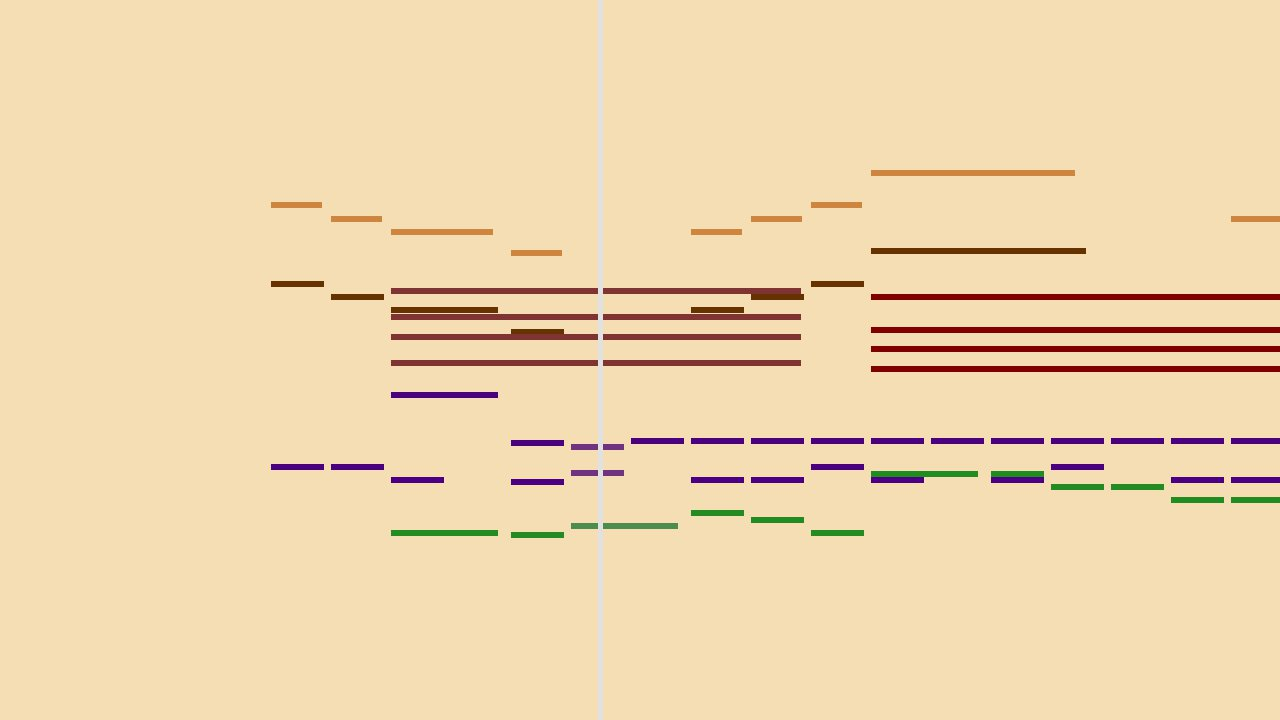
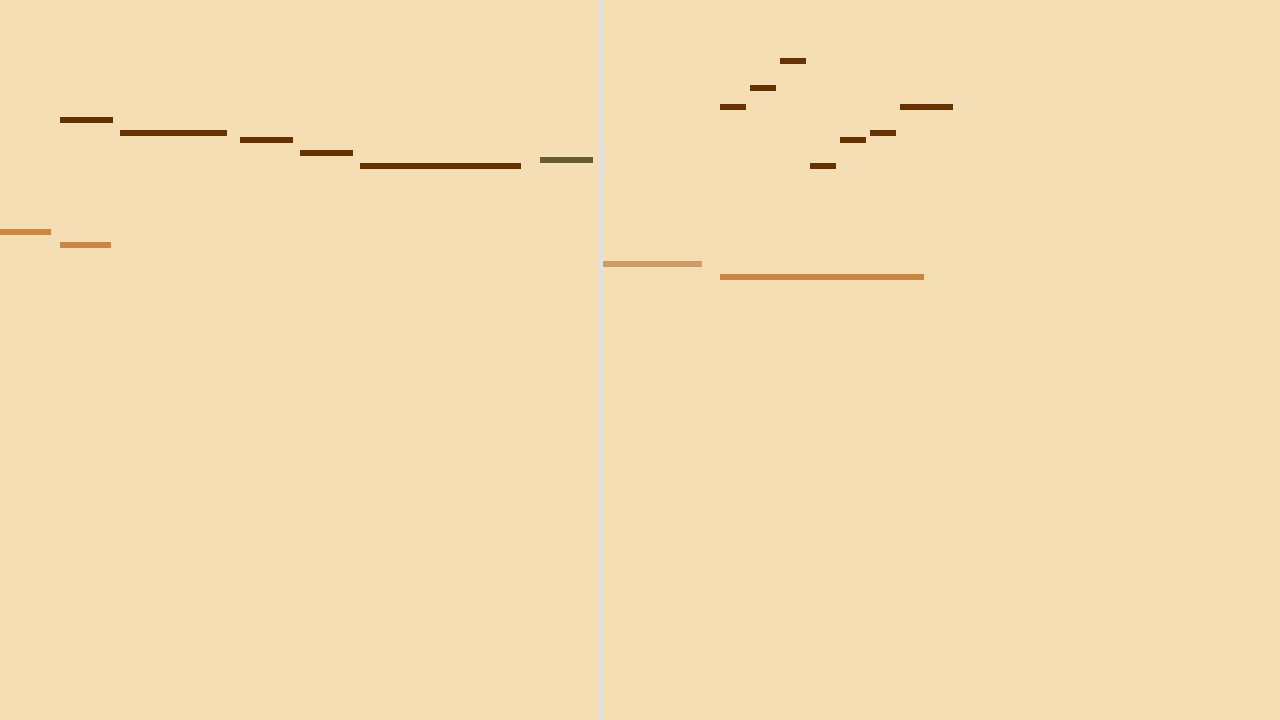
line

diff --git a/app_logic.py b/app_logic.py
@@ -87,10 +87,14 @@ class AppLogic():
         self.set_display_height(720)
         self.set_starting_position(1000)
         self.set_note_length(120)
+
         self.set_line_x(600)
+        self.set_line_colour((225,225,225))
+        self.set_line_width(5)
+        self.set_line_height(720)
+        
         self.set_colour(bg_colour_2)
 
-    #P
     def process_midi(self):
         
         #setting initial bpm, its just for note generation not too important
@@ -158,7 +162,12 @@ class AppLogic():
 
     def set_line_x(self, line_x):
         self.line_x = line_x
-
+    def set_line_colour(self, line_colour):
+        self.line_colour = line_colour
+    def set_line_width(self, line_width):
+        self.line_width = line_width
+    def set_line_height(self, line_height):
+        self.line_height = line_height
 
     def generate_vid(self):
         pg.quit()
@@ -258,15 +267,13 @@ class AppLogic():
                     # print("rectangle")
                     # print(note)
         
-            pg.display.update()
             
             # the line
             line_start = (self.line_x,0)
-            line_end = (self.line_x,720)
-            line_width = 5
-            line_colour = (225,225,225)
-            pg.draw.line(screen, line_colour, line_start, line_end, line_width)
+            line_end = (self.line_x,self.line_height)
+            pg.draw.line(screen, self.line_colour, line_start, line_end, self.line_width)
 
+            pg.display.update()
 
 
             vid.vid_generator(screen)
@@ -333,6 +340,11 @@ class AppLogic():
                 pg.draw.rect(frame_screen, rect_color, (rect_x, rect_y, rect_width, rect_height))
                 # pg.display.update(pg.Rect(rect_x, rect_y, rect_width, rect_height))
 
+        # the line
+        line_start = (self.line_x,0)
+        line_end = (self.line_x,self.line_height)
+        
+        pg.draw.line(frame_screen, self.line_colour, line_start, line_end, self.line_width)
         # raw_frame = pg.image.tostring(frame_screen, "RGB")
         raw_frame = pg.surfarray.array3d(frame_screen)
            

diff --git a/app.py b/app.py
@@ -265,11 +265,9 @@ class Instrument(QWidget):
         self.name = name
         self.safe_name = re.sub(r'[^\x20-\x7E]', '', self.name)  # Remove invalid characters
 
-
         self.setup_ui()
         self.setup_signals()
 
- 
 
     def setup_ui(self):
         # Instrument Wdiget Background Handling
@@ -492,7 +490,7 @@ class Preview_Slider(QSlider):
         super().__init__(Qt.Horizontal, parent)
         self.setMinimum(0)
         self.setMaximum(100)
-        # self.setFixedSize(300, 200)  # Set QLabel to a fixed size
+       
 
 
 
@@ -586,3 +584,6 @@ class Color(QWidget):
         self.layout.addWidget(self.name_label)
         self.setLayout(self.layout)
         
+
+class Button(QPushButton):
+    pass
